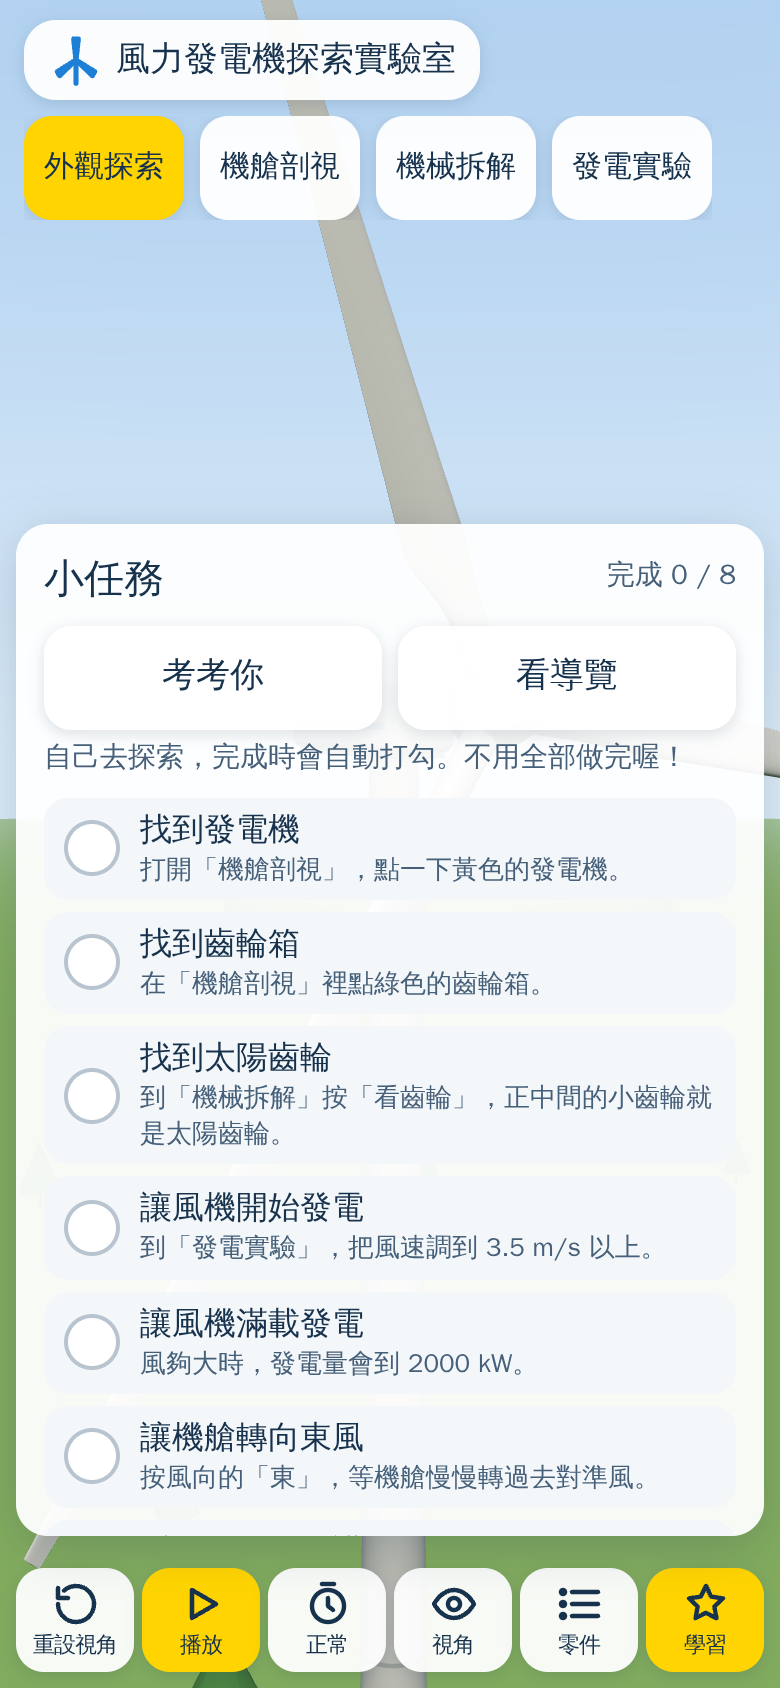
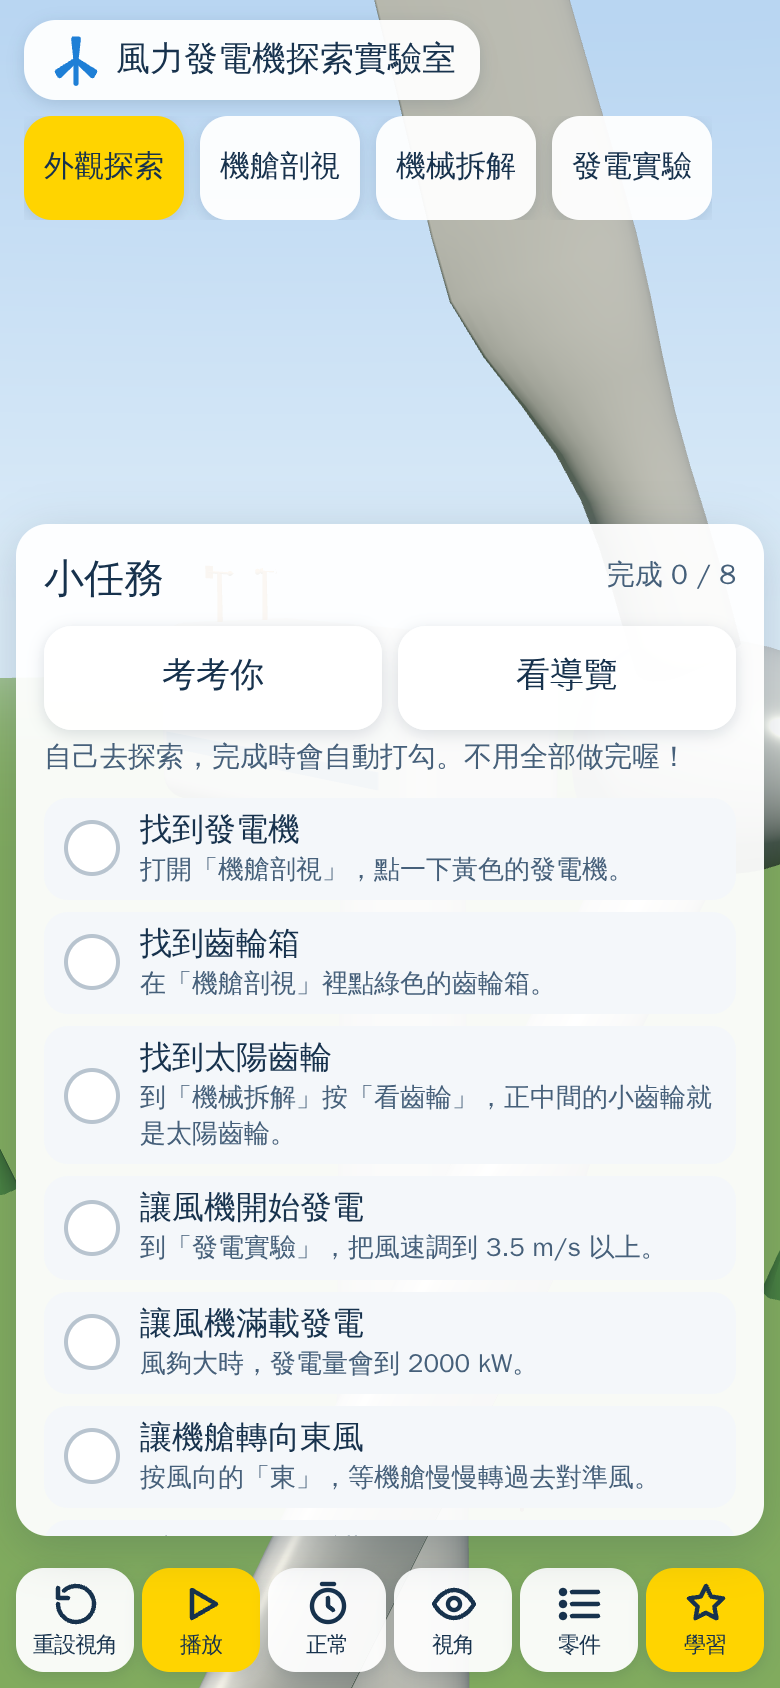
修正「看機艙裡面」按鈕：外殼變透明時鏡頭同時飛到機艙
從整台風機的距離看，機艙只有一小點，外殼變透明看起來像沒有反應。
現在按下會飛到剖視視角，再按一次回到整台風機；截圖檢查實際點按鈕驗證（桌面、手機）。

Claude-Session: https://claude.ai/code/session_018NhKTKtGJUbwg2mJp8yn6q

diff --git a/src/ui/experimentPanel.js b/src/ui/experimentPanel.js
@@ -147,7 +147,12 @@ export function createExperimentPanel({ root, store, actions }) {
   // ---------- 看哪裡 ----------
   const views = el('div', { class: 'xp-views' });
   const insideBtn = el('button', { class: 'btn', type: 'button' }, '看機艙裡面');
-  insideBtn.addEventListener('click', () => store.set({ shellView: store.get().shellView === 'solid' ? 'transparent' : 'solid' }));
+  // 外殼變透明的同時把鏡頭飛到機艙旁；從整台風機的距離看，機艙太小，會像沒有反應
+  insideBtn.addEventListener('click', () => {
+    const goIn = store.get().shellView === 'solid';
+    store.set({ shellView: goIn ? 'transparent' : 'solid' });
+    actions.preset(goIn ? 'cutaway' : 'experiment');
+  });
   const gridBtn = el('button', { class: 'btn', type: 'button' }, '看送電路線');
   gridBtn.addEventListener('click', () => actions.preset('grid'));
   const allBtn = el('button', { class: 'btn', type: 'button' }, '看整台風機');
